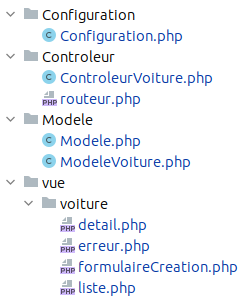
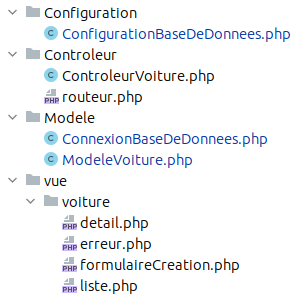
TD4: Model -> ConnexionBaseDeDonnees Conf -> ConfigurationBaseDeDonnees getVoitureParImmat -> getVoitureParImmatriculation

diff --git a/tutorials/tutorial4.md b/tutorials/tutorial4.md
@@ -77,7 +77,7 @@ ayant des fonctions bien précises. Dans notre exemple, l'ancien fichier
 Voici un aperçu de tous les fichiers que nous allons créer dans ce TD.
 
 <img alt="Structure de nos fichiers"
-src="../assets/TD4/StructureRepertoire.png" style="margin-left:auto;margin-right:auto;display:block;width:14em;">
+src="../assets/TD4/StructureRepertoire.png" style="margin-left:auto;margin-right:auto;display:block;width:17em;">
 
 **Conventions de nommage :**
 1. Les noms des fichiers PHP de déclaration de classe commencent par une majuscule, les autres non.
@@ -93,18 +93,16 @@ lors des TDs précédents (sauf la fonction `__toString()`).
 <div class="exercise">
 
 1. Créez les répertoires `Configuration`, `Controleur`, `Modele`, `vue` et `vue/voiture`.
-2. Utilisez l'outil de refactoring de votre IDE pour renommer : 
-   1. la classe `Voiture` en `ModeleVoiture`, 
-   2. la classe `Model` en `ConnexionBaseDeDonnee`,
-   3. la classe `Conf` en `Configuration`.  
+2. Utilisez l'outil de refactoring de votre IDE pour renommer la classe
+   `Voiture` en `ModeleVoiture`. 
    
    Vérifiez que les déclarations de type ont bien été mises à jour partout dans votre code.  
    Mettez en commentaire la fonction `__toString()` pour la désactiver.
 
    **Aide pour le *refactoring*** : Clic droit sur le fichier de déclaration de classe à renommer à PhpStorm, puis *Refactor* → *Rename*.
-3. Déplacez vos fichiers `ModeleVoiture.php` et `ConnexionBaseDeDonnee.php` dans le répertoire `Modele/`.
-4. Déplacez la classe `Configuration` dans le dossier `Configuration`.
-5. Corrigez le chemin relatif du `require_once` du fichier `Configuration.php` dans `ConnexionBaseDeDonnee.php`.
+3. Déplacez vos fichiers `ModeleVoiture.php` et `ConnexionBaseDeDonnees.php` dans le répertoire `Modele/`.
+4. Déplacez la classe `ConfigurationBaseDeDonnees` dans le dossier `Configuration`.
+5. Corrigez le chemin relatif du `require_once` du fichier `ConfigurationBaseDeDonnees.php` dans `ConnexionBaseDeDonnees.php`.
 
 </div>
 
